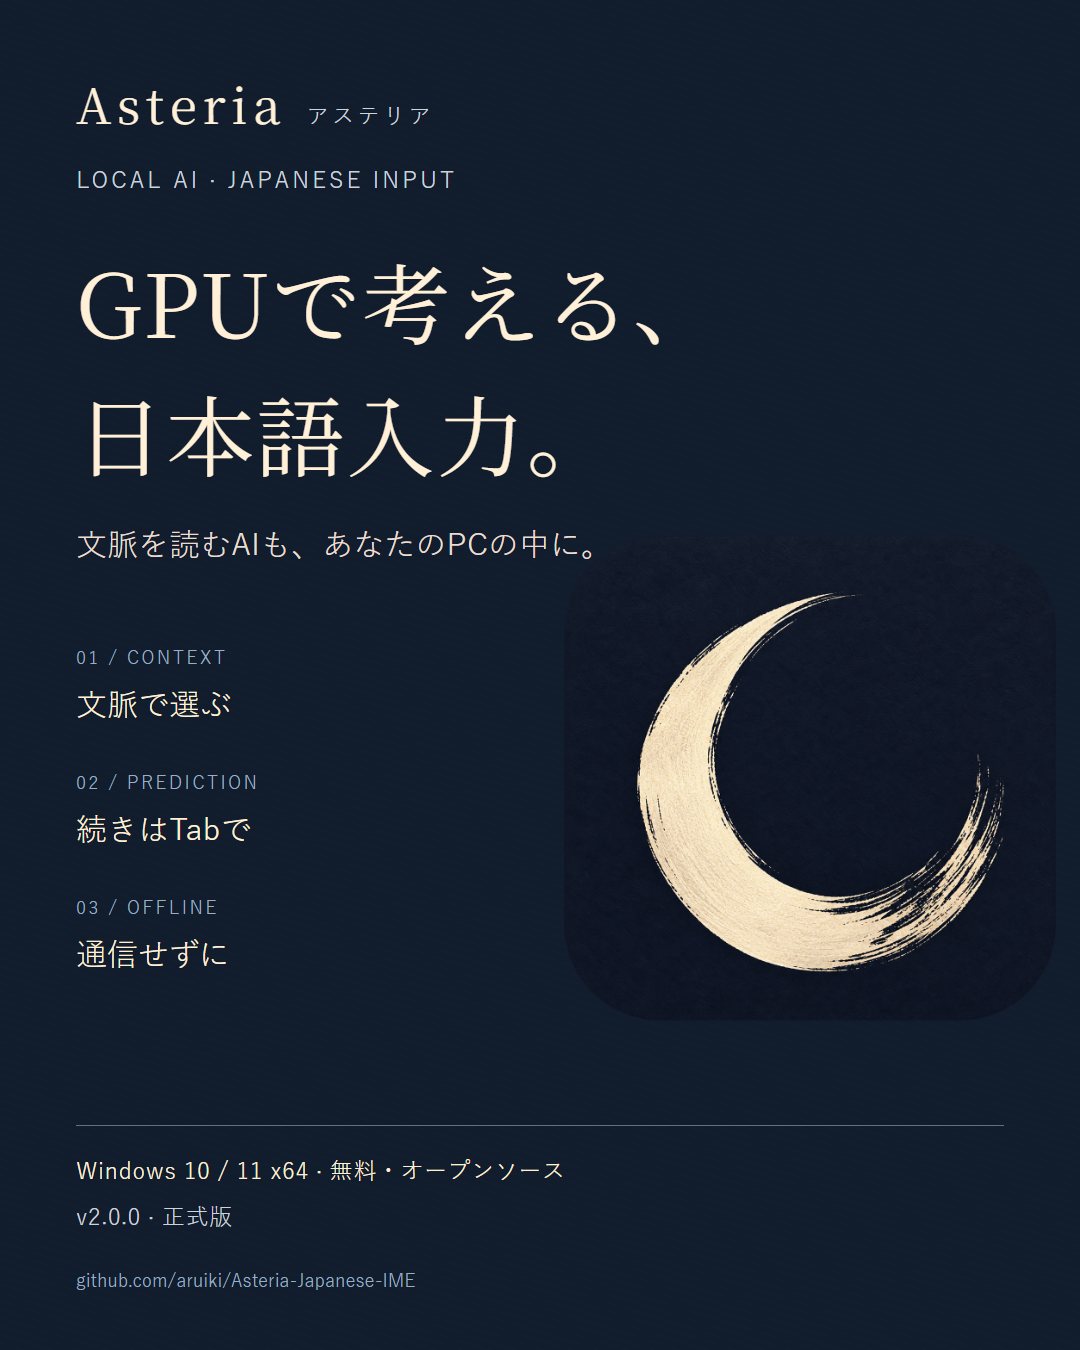
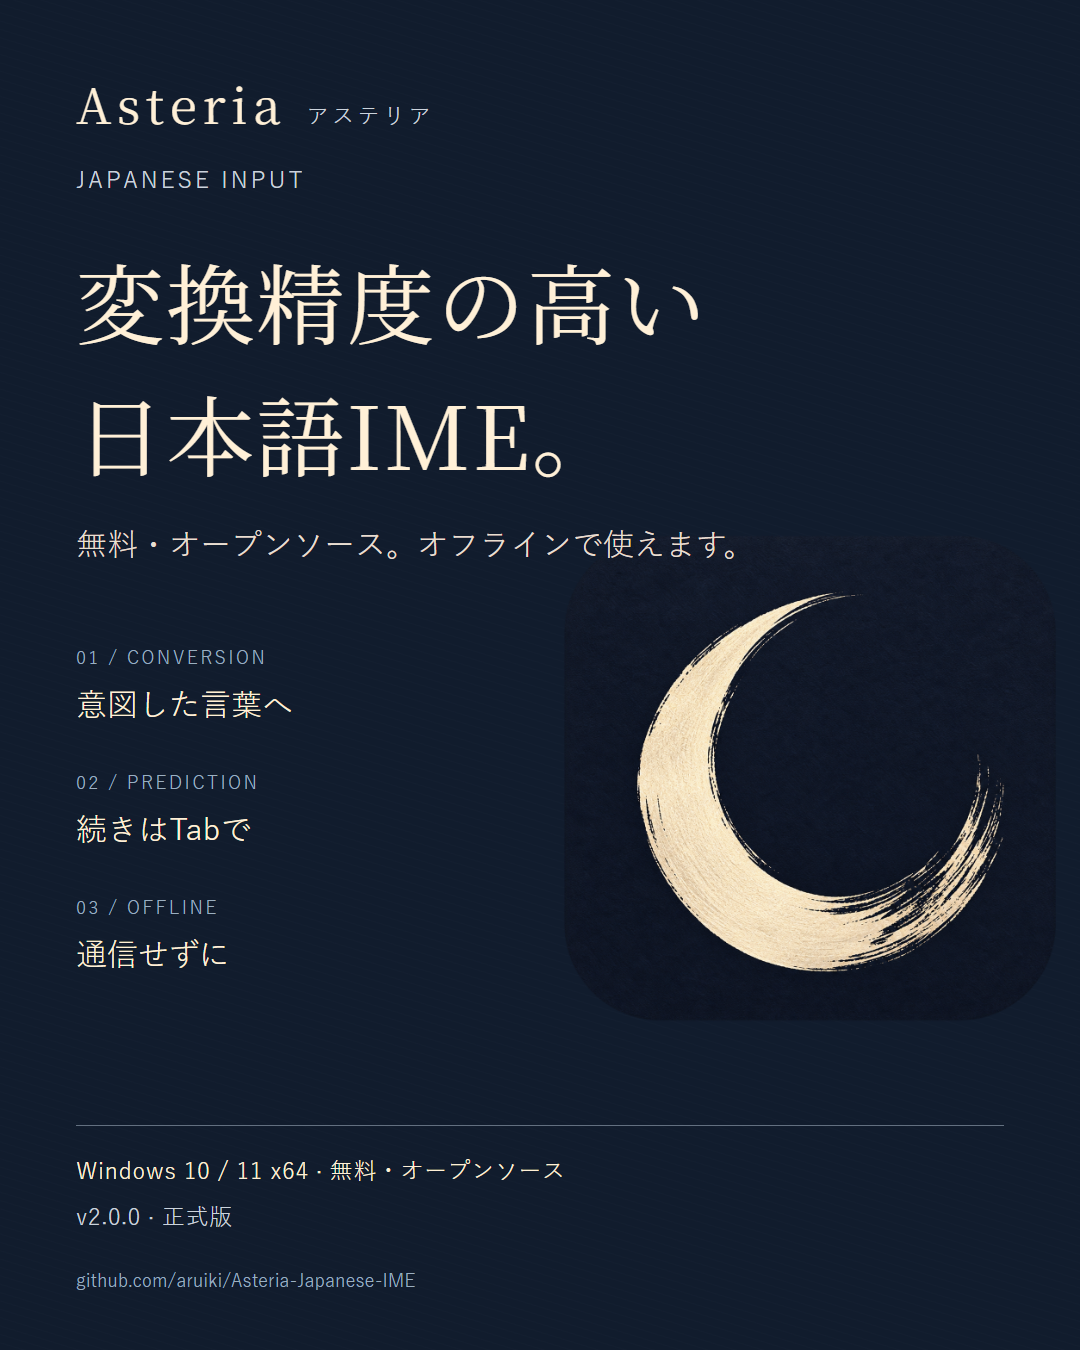
docs: present conversion accuracy in Asteria promotional images
Use the product value requested by the user and retain the existing moon identity and published version.

diff --git a/docs/marketing/creative.html b/docs/marketing/creative.html
@@ -46,12 +46,12 @@ h1 span{display:block}
 <body>
 <main class="art" aria-label="Asteriaの紹介画像">
   <p class="brand">Asteria <span>アステリア</span></p>
-  <div class="eyebrow">LOCAL AI · JAPANESE INPUT</div>
+  <div class="eyebrow">JAPANESE INPUT</div>
   <img class="moon" src="../design/2026-10-asteria/asteria-icon.png" alt="">
-  <h1><span>GPUで考える、</span><span>日本語入力。</span></h1>
-  <p class="lead">文脈を読むAIも、あなたのPCの中に。</p>
+  <h1><span>変換精度の高い</span><span>日本語IME。</span></h1>
+  <p class="lead">無料・オープンソース。オフラインで使えます。</p>
   <div class="features">
-    <div><span>01 / CONTEXT</span>文脈で選ぶ</div>
+    <div><span>01 / CONVERSION</span>意図した言葉へ</div>
     <div><span>02 / PREDICTION</span>続きはTabで</div>
     <div><span>03 / OFFLINE</span>通信せずに</div>
   </div>
